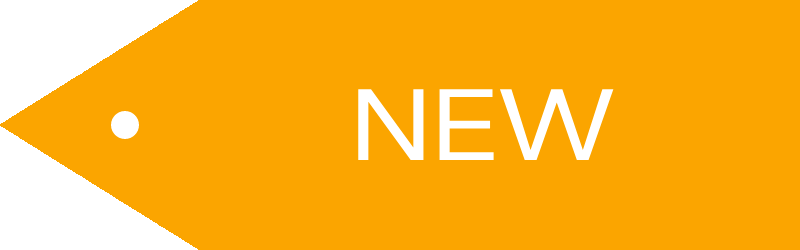
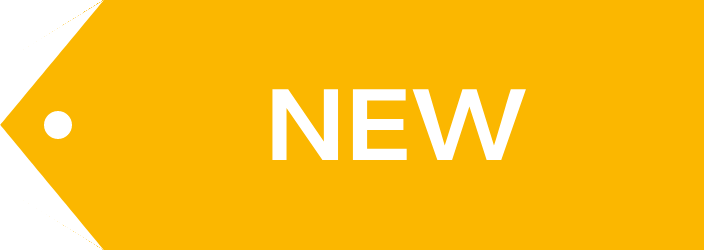
v26

diff --git a/client/src/components/Product.js b/client/src/components/Product.js
@@ -1,22 +1,45 @@
-import React from 'react'
+import React, { useState } from 'react'
 import { formatMoney } from '../ultils/helpers'
-import label from '../assets/label.png'
-import labelBlue from '../assets/label-blue.png'
+import label from '../assets/new.png'
+import trending from '../assets/trending.png'
+import { renderStarFromNumber } from '../ultils/helpers'
+import { SelectOption } from './'
+import icons from '../ultils/icons'
+
+const { AiFillEye, AiOutlineMenu, BsFillSuitHeartFill } = icons
 
 const Product = ({ productData, isNew }) => {
+    const [isShowOption, setIsShowOption] = useState(false)
     return (
         <div className='w-full text-base px-[10px]'>
-            <div className='w-full border p-[15px] flex flex-col items-center'>
+            <div
+                className='w-full border p-[15px] flex flex-col items-center'
+                onMouseEnter={e => {
+                    e.stopPropagation()
+                    setIsShowOption(true)
+                }}
+                onMouseLeave={e => {
+                    e.stopPropagation()
+                    setIsShowOption(false)
+                }}
+            >
                 <div className='w-full relative'>
+                    {isShowOption && <div
+                        className='absolute bottom-[-10px] left-0 right-0 flex justify-center gap-2 animate-slide-top'
+                    >
+                        <SelectOption icon={<AiFillEye />} />
+                        <SelectOption icon={<AiOutlineMenu />} />
+                        <SelectOption icon={<BsFillSuitHeartFill />} />
+                    </div>}
                     <img
                         src={productData?.thumb || 'https://apollobattery.com.au/wp-content/uploads/2022/08/default-product-image.png'}
                         alt=""
-                        className='w-[243px] h-[243px]  object-cover'
+                        className='w-[274px] h-[274px]  object-cover'
                     />
-                    <img src={isNew ? label : labelBlue} alt="" className={`absolute w-[120px] top-[-32px] left-[-42px] object-contain`} />
-                    <span className={`font-bold top-[-10px] left-[-12px] text-white absolute ${isNew ? '' : 'text-sm'}`}>{isNew ? 'New' : 'Trending'}</span>
+                    <img src={isNew ? label : trending} alt="" className={`absolute w-[100px] h-[35px] top-0 right-[0] object-cover`} />
                 </div>
                 <div className='flex flex-col mt-[15px] items-start gap-1 w-full'>
+                    <span className='flex h-4'>{renderStarFromNumber(productData?.totalRatings)}</span>
                     <span className='line-clamp-1'>{productData?.title}</span>
                     <span>{`${formatMoney(productData?.price)} VNĐ`}</span>
                 </div>

diff --git a/client/src/components/BestSeller.js b/client/src/components/BestSeller.js
@@ -53,11 +53,24 @@ const BestSeller = () => {
                     {products?.map(el => (
                         <Product
                             key={el.id}
+                            pid={el.id}
                             productData={el}
                             isNew={activedTab === 1 ? false : true}
                         />
                     ))}
                 </Slider>
+            </div>
+            <div className='w-full flex gap-4 mt-4'>
+                <img
+                    src="https://cdn.shopify.com/s/files/1/1903/4853/files/banner2-home2_2000x_crop_center.png?v=1613166657"
+                    alt="banner"
+                    className='flex-1 object-contain'
+                />
+                <img
+                    src="https://cdn.shopify.com/s/files/1/1903/4853/files/banner1-home2_2000x_crop_center.png?v=1613166657"
+                    alt="banner"
+                    className='flex-1 object-contain'
+                />
             </div>
         </div>
     )

diff --git a/client/src/ultils/icons.js b/client/src/ultils/icons.js
@@ -1,15 +1,20 @@
 import { RiPhoneFill } from 'react-icons/ri'
 import { MdEmail } from 'react-icons/md'
-import { BsHandbagFill } from 'react-icons/bs'
+import { BsHandbagFill, BsFillSuitHeartFill } from 'react-icons/bs'
 import { FaUserCircle } from 'react-icons/fa'
-import { AiFillHome } from 'react-icons/ai'
+import { AiFillHome, AiFillStar, AiOutlineStar, AiFillEye, AiOutlineMenu } from 'react-icons/ai'
 
 const icons = {
     RiPhoneFill,
     MdEmail,
     BsHandbagFill,
     FaUserCircle,
-    AiFillHome
+    AiFillHome,
+    AiFillStar,
+    AiOutlineStar,
+    AiFillEye,
+    AiOutlineMenu,
+    BsFillSuitHeartFill
 }
 
 export default icons

diff --git a/client/src/ultils/helpers.js b/client/src/ultils/helpers.js
@@ -1,2 +1,17 @@
+import icons from "./icons"
+
+const { AiOutlineStar, AiFillStar } = icons
+
+
+
 export const createSlug = string => string.toLowerCase().normalize("NFD").replace(/[\u0300-\u036f]/g, "").split(' ').join('-')
+
 export const formatMoney = number => Number(number.toFixed(1)).toLocaleString()
+
+export const renderStarFromNumber = (number) => {
+    if (!Number(number)) return
+    const stars = []
+    for (let i = 0; i < +number; i++) stars.push(<AiFillStar color="orange" />)
+    for (let i = 5; i > +number; i--) stars.push(<AiOutlineStar color="orange" />)
+    return stars
+}

diff --git a/client/tailwind.config.js b/client/tailwind.config.js
@@ -17,6 +17,21 @@ module.exports = {
       },
       colors: {
         main: '#ee3131'
+      },
+      keyframes: {
+        'slide-top': {
+          '0%': {
+            '-webkit-transform': ' translateY(40px);',
+            transform: 'translateY(40px);'
+          },
+          '100%': {
+            '-webkit-transform': 'translateY(0px);',
+            transform: 'translateY(0px);'
+          }
+        }
+      },
+      animation: {
+        'slide-top': 'slide-top 0.5s cubic-bezier(0.250, 0.460, 0.450, 0.940) both;'
       }
     },
   },

diff --git a/client/src/store/appSlice.js b/client/src/store/appSlice.js
@@ -9,9 +9,7 @@ export const appSlice = createSlice({
         isLoading: false
     },
     reducers: {
-        // logout: (state) => {
-        //     state.isLoading = false
-        // }
+
     },
     extraReducers: (builder) => {
         builder.addCase(actions.getCategories.pending, (state) => {
@@ -27,6 +25,6 @@ export const appSlice = createSlice({
         });
     }
 })
-export const { } = appSlice.actions
+// export const { } = appSlice.actions
 
 export default appSlice.reducer

diff --git a/client/src/components/SelectOption.js b/client/src/components/SelectOption.js
@@ -1,0 +1,11 @@
+import React from 'react'
+
+const SelectOption = ({ icon }) => {
+    return (
+        <div className='w-10 h-10 bg-white rounded-full border shadow-md flex items-center justify-center hover:bg-gray-800 hover:text-white cursor-pointer hover:border-gray-800'>
+            {icon}
+        </div>
+    )
+}
+
+export default SelectOption

diff --git a/server/controllers/insertData.js b/server/controllers/insertData.js
@@ -17,7 +17,8 @@ const fn = async (product) => {
         sold: Math.round(Math.random() * 100),
         images: product?.images,
         color: product?.variants?.find(el => el.label === 'Color')?.variants[0],
-        thumb: product?.thumb
+        thumb: product?.thumb,
+        totalRatings: Math.round(Math.random() * 5)
     })
 }
 

diff --git a/client/src/components/Sidebar.js b/client/src/components/Sidebar.js
@@ -1,5 +1,4 @@
-import React, { useState, useEffect } from 'react'
-import { apiGetCategories } from '../apis/app'
+import React from 'react'
 import { NavLink } from 'react-router-dom'
 import { createSlug } from '../ultils/helpers'
 import { useSelector } from 'react-redux'

diff --git a/client/src/components/index.js b/client/src/components/index.js
@@ -4,3 +4,4 @@ export { default as Banner } from './Banner'
 export { default as Navigation } from './Navigation'
 export { default as BestSeller } from './BestSeller'
 export { default as Product } from './Product'
+export { default as SelectOption } from './SelectOption'

diff --git a/client/src/pages/public/Home.js b/client/src/pages/public/Home.js
@@ -1,4 +1,4 @@
-import React, { useEffect, useState } from 'react'
+import React from 'react'
 import { Sidebar, Banner, BestSeller } from '../../components'
 
 
